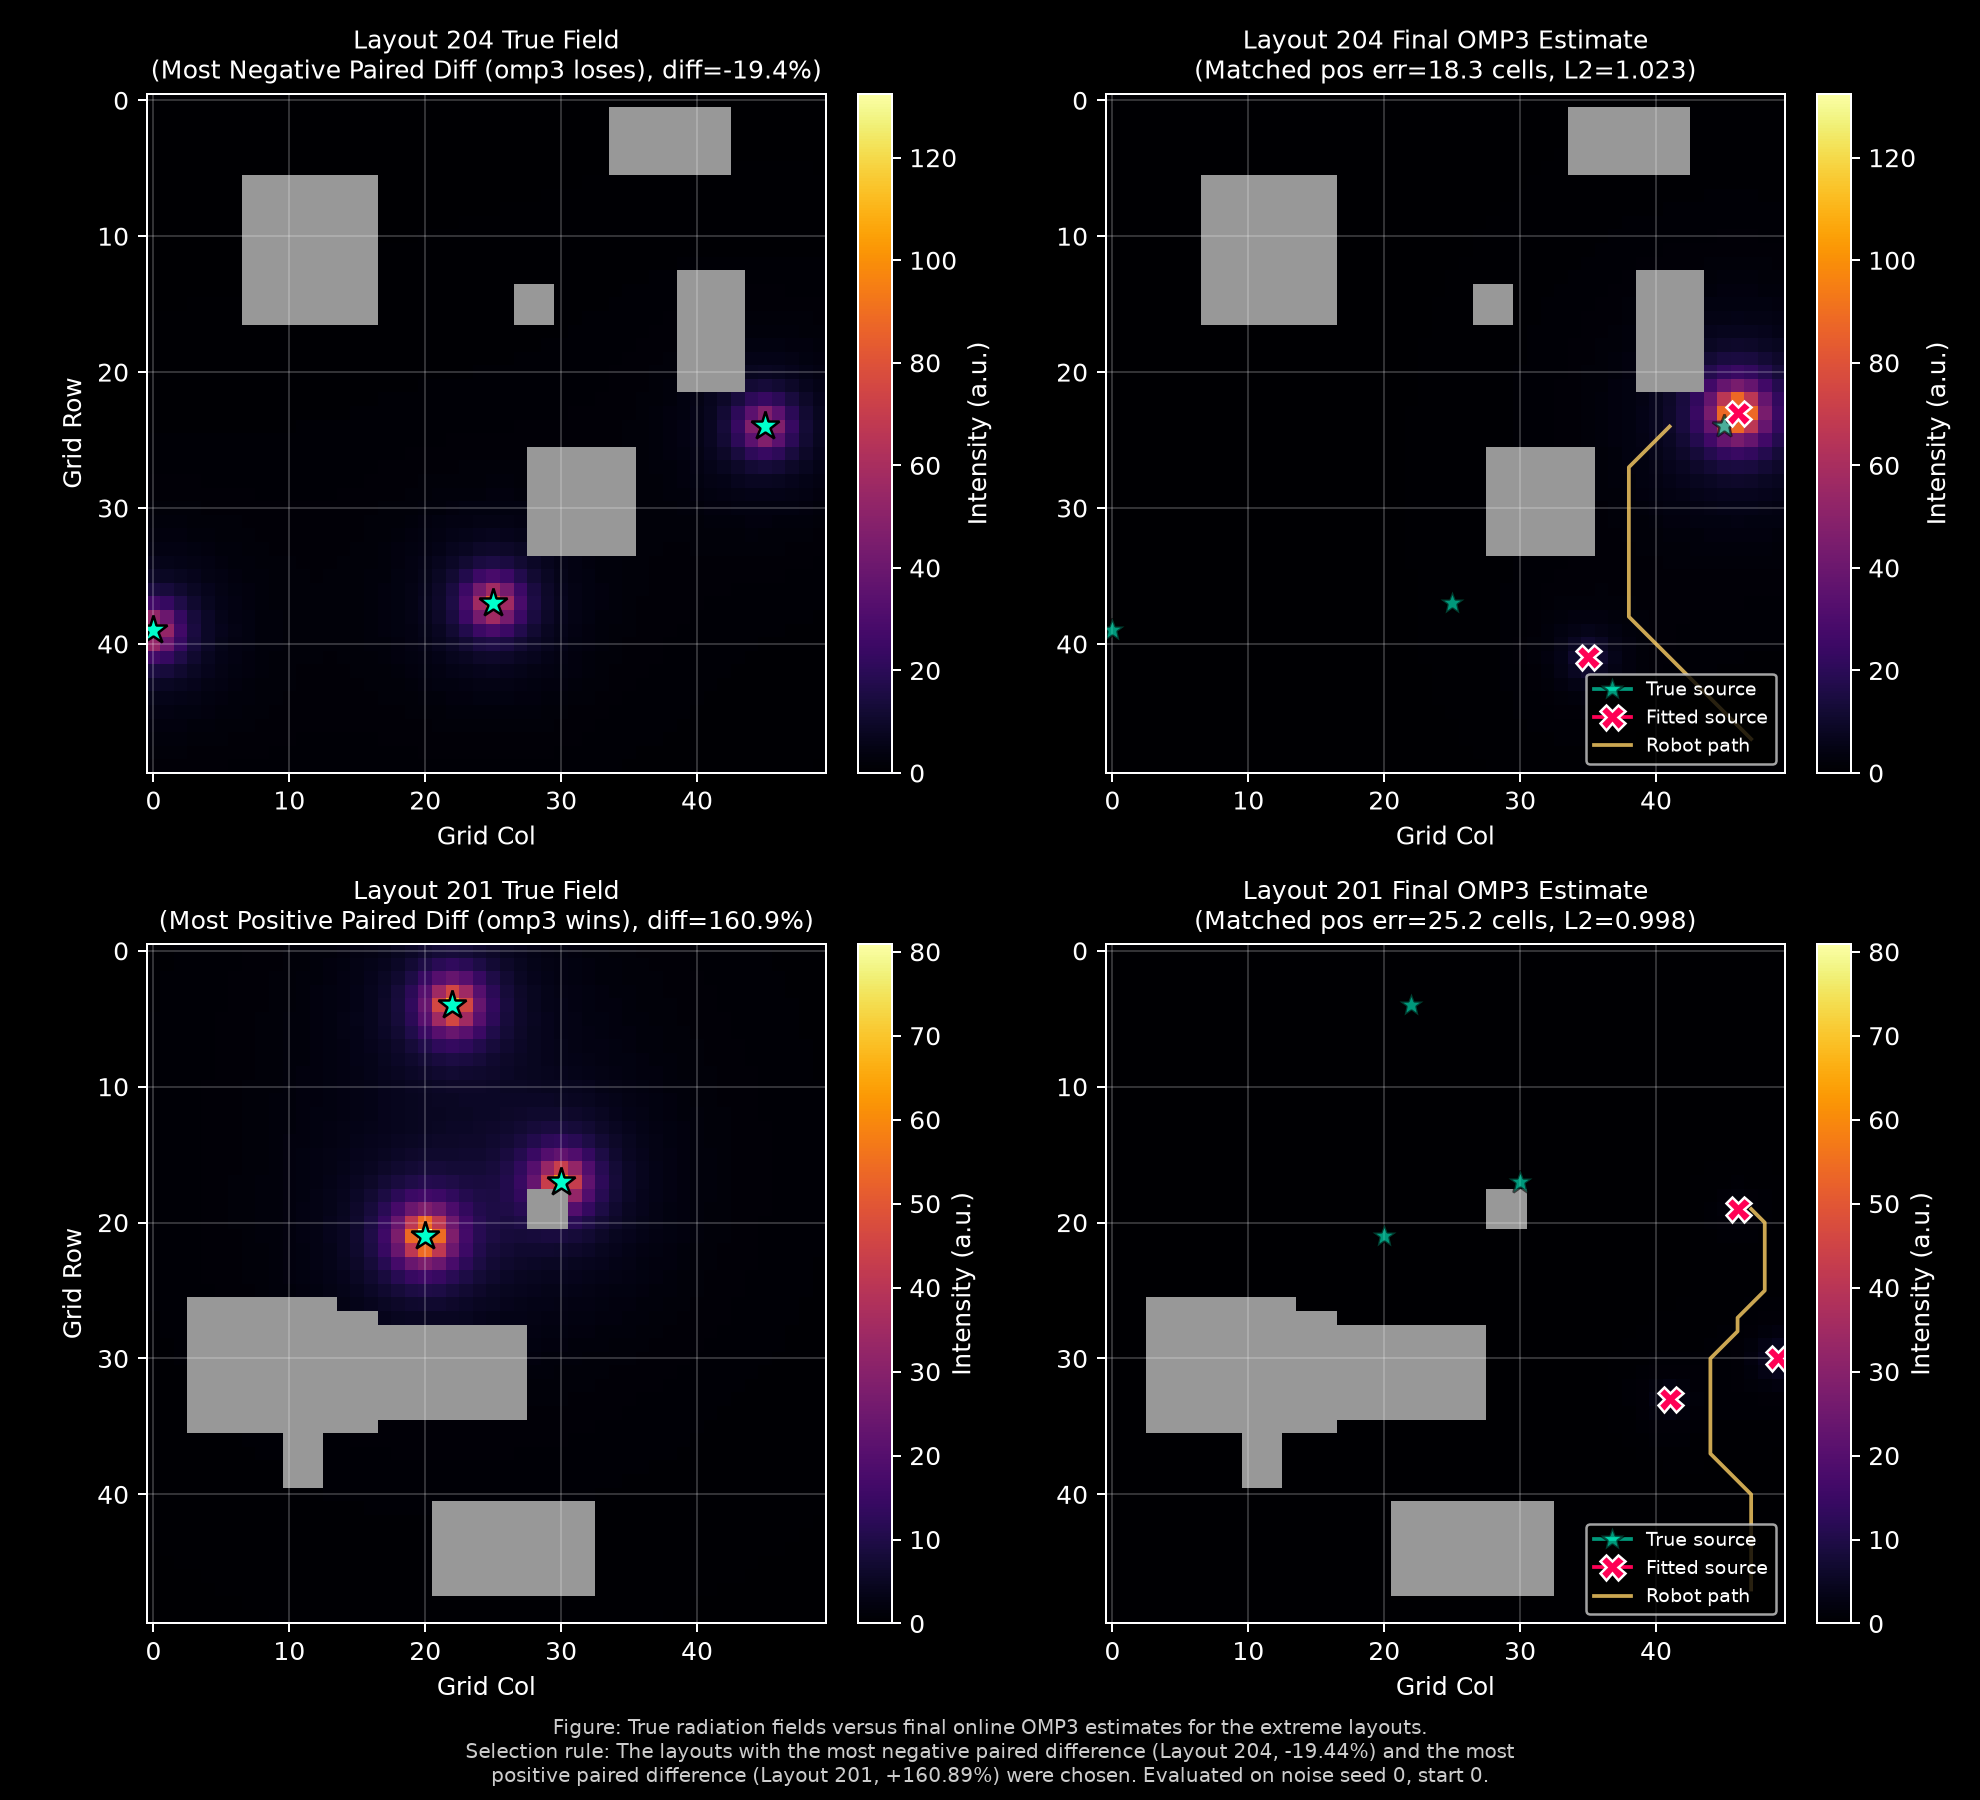
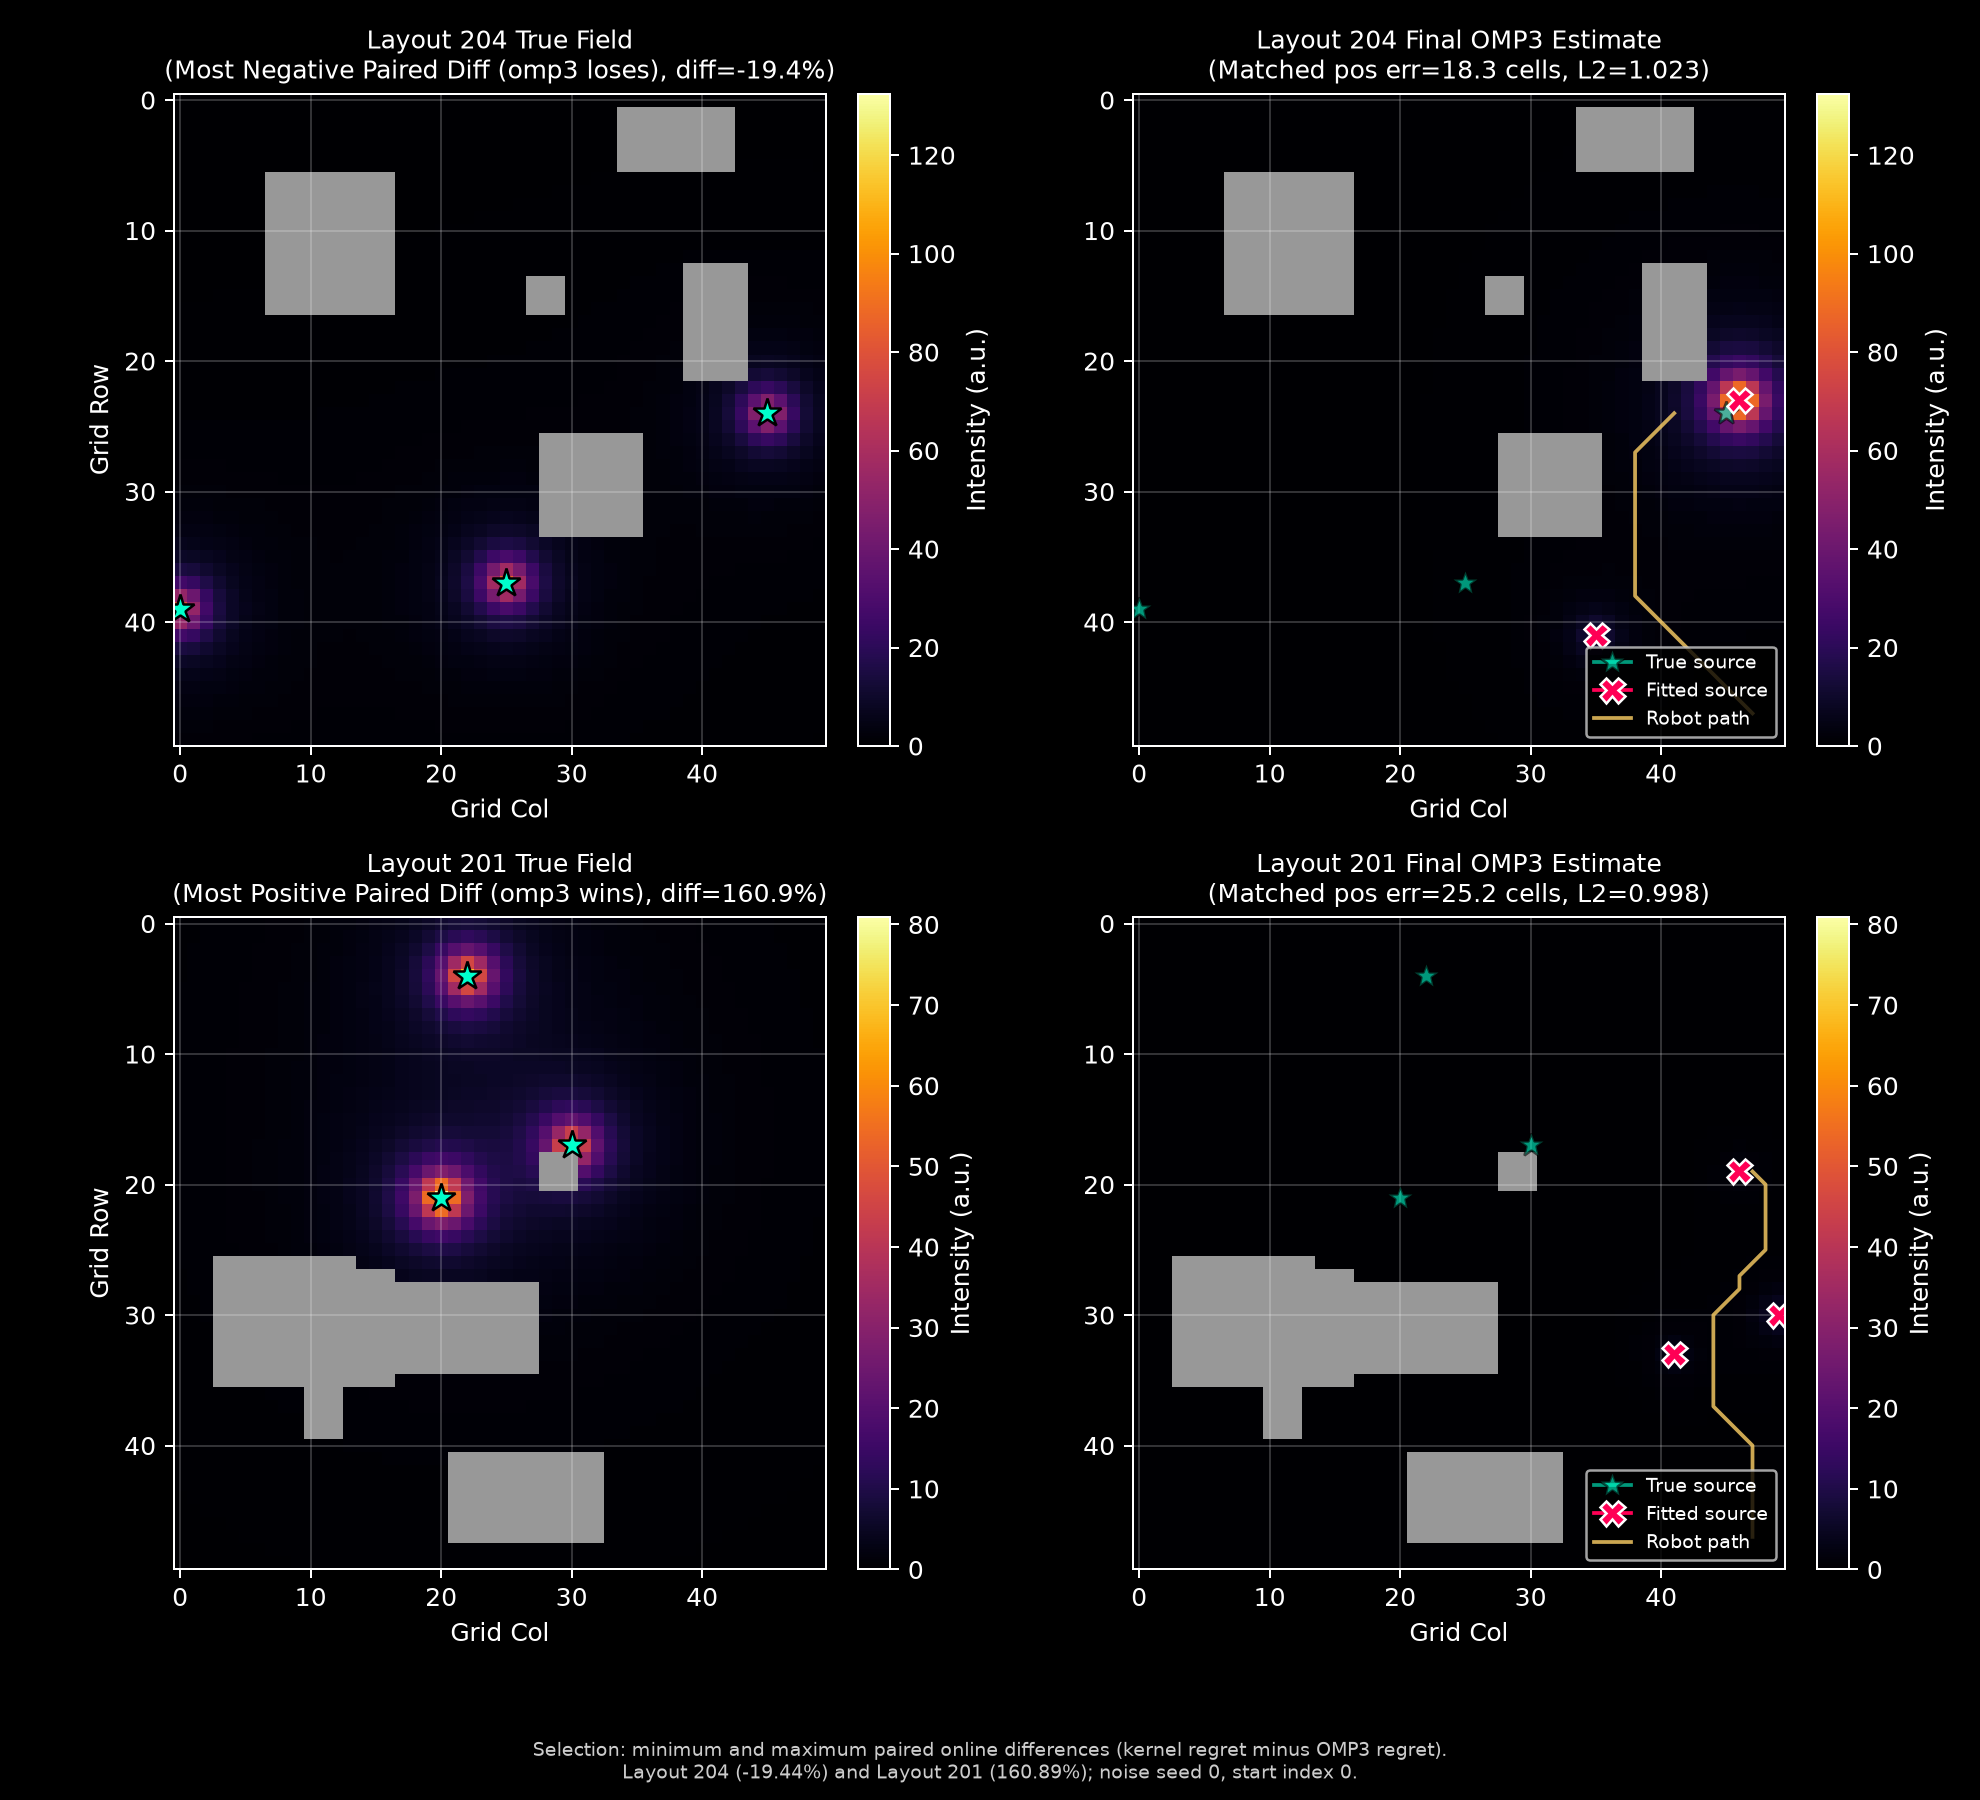
fix(s14): derive figure annotations from analysis results
Keep group statistics and extreme-layout selection synchronized with data.

Verified figures, focused tests, Ruff, number audit, and link check.

diff --git a/src/plot_s14.py b/src/plot_s14.py
@@ -123,8 +123,14 @@ def plot_source_error_by_group(data: dict) -> None:
     per_layout = data["per_layout"]
     gc = data["group_comparison"]
 
-    loses = [r["mean_matched_source_error"] for r in per_layout if r["group"] == "omp3 loses"]
-    wins = [r["mean_matched_source_error"] for r in per_layout if r["group"] == "omp3 wins"]
+    loses = [
+        r["mean_matched_source_position_error"]
+        for r in per_layout if r["group"] == "omp3 loses"
+    ]
+    wins = [
+        r["mean_matched_source_position_error"]
+        for r in per_layout if r["group"] == "omp3 wins"
+    ]
 
     fig, ax = plt.subplots(figsize=(7, 5))
     positions = [1, 2]
@@ -155,19 +161,12 @@ def plot_source_error_by_group(data: dict) -> None:
         f"omp3 wins\nmedian = {gc['wins_median_matched_error']:.2f}",
     ], fontsize=10)
     ax.set_ylabel("Mean matched source position error (cells)")
-    ax.set_title("S14: Matched Source Position Error by Outcome Group")
-
-    annot = (
-        f"Diff of medians: {gc['diff_of_medians']:.2f} cells\n"
-        f"95% CI: [{gc['diff_ci_low']:.2f}, {gc['diff_ci_high']:.2f}]\n"
-        f"H4: not supported (CI covers zero)"
-    )
-    ax.text(
-        0.05, 0.95, annot,
-        transform=ax.transAxes,
-        fontsize=9,
-        verticalalignment="top",
-        bbox=dict(boxstyle="round,pad=0.4", facecolor="#101820", edgecolor="#666666", alpha=0.85),
+    ax.set_title(
+        "S14: Matched Source Position Error by Outcome Group\n"
+        f"Median difference (loses - wins): {gc['diff_of_medians']:.2f} cells "
+        f"[{gc['diff_ci_low']:.2f}, {gc['diff_ci_high']:.2f}]\n"
+        f"H4: {data['verdicts']['H4']}",
+        fontsize=11,
     )
     ax.legend(loc="upper right")
 
@@ -194,8 +193,8 @@ def plot_extreme_field_comparison(data: dict) -> None:
     """Figure (d): Side-by-side picture of true field and final omp3 estimate for extreme layouts."""
     # Choice rule: layout with minimum and maximum paired online difference
     sorted_layouts = sorted(data["per_layout"], key=lambda r: r["paired_online_difference"])
-    min_row = sorted_layouts[0]   # most negative (layout 204)
-    max_row = sorted_layouts[-1]  # most positive (layout 201)
+    min_row = sorted_layouts[0]
+    max_row = sorted_layouts[-1]
 
     min_seed = min_row["layout_seed"]
     max_seed = max_row["layout_seed"]
@@ -290,12 +289,14 @@ def plot_extreme_field_comparison(data: dict) -> None:
         ax_est.legend(by_label.values(), by_label.keys(), loc="lower right", fontsize=7.5)
 
     caption = (
-        "Figure: True radiation fields versus final online OMP3 estimates for the extreme layouts.\n"
-        "Selection rule: The layouts with the most negative paired difference (Layout 204, -19.44%) and the most\n"
-        "positive paired difference (Layout 201, +160.89%) were chosen. Evaluated on noise seed 0, start 0."
+        "Selection: minimum and maximum paired online differences "
+        "(kernel regret minus OMP3 regret).\n"
+        f"Layout {min_seed} ({min_row['paired_online_difference']:.2f}%) and "
+        f"Layout {max_seed} ({max_row['paired_online_difference']:.2f}%); "
+        "noise seed 0, start index 0."
     )
-    fig.text(0.5, 0.01, caption, ha="center", fontsize=8, color="#cccccc")
-    fig.tight_layout(rect=[0, 0.04, 1, 1])
+    fig.text(0.5, 0.012, caption, ha="center", fontsize=7.5, color="#cccccc")
+    fig.tight_layout(rect=[0, 0.07, 1, 1])
 
     out_path = RESULTS / "s14_extreme_field_comparisons.png"
     fig.savefig(out_path)
